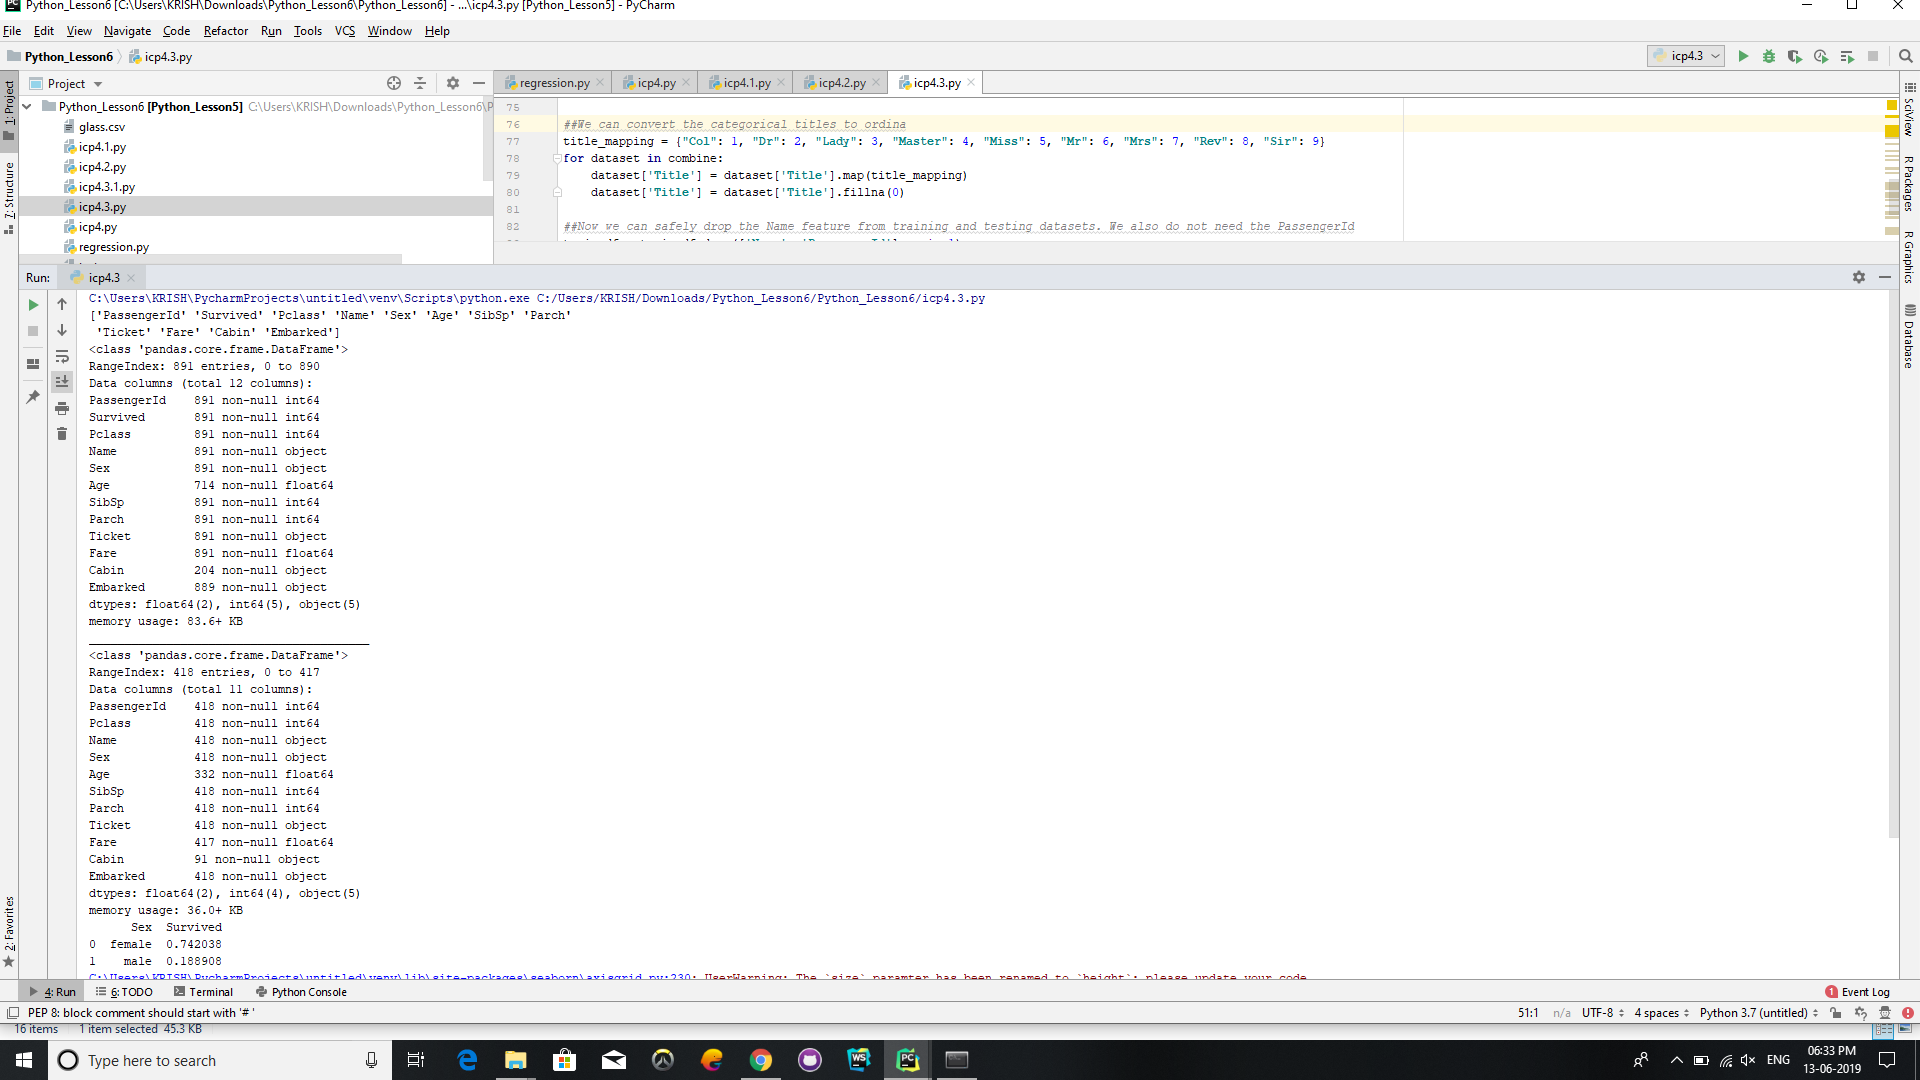
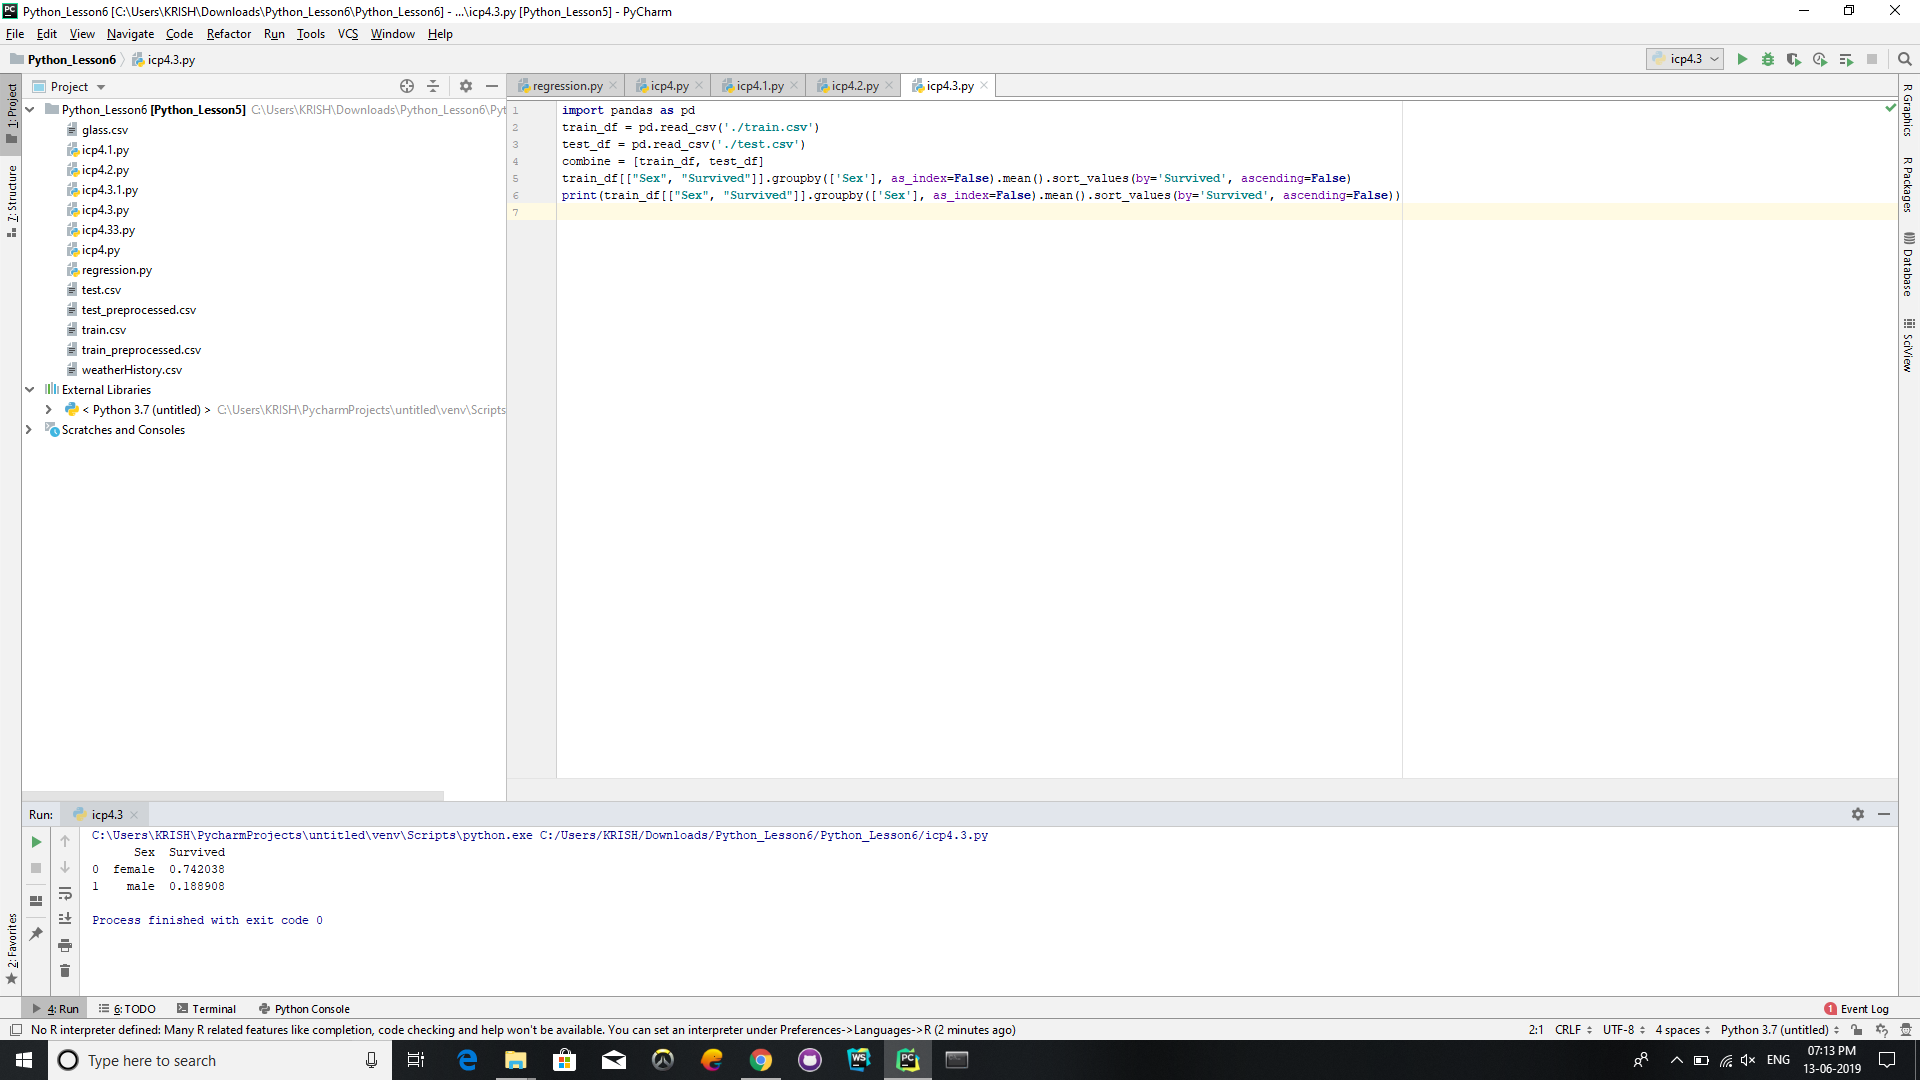
commit

Changed region(s): [[0.0, 0.0, 1.0, 0.9778]]

diff --git a/ICP 4/icp4.3.py b/ICP 4/icp4.3.py
@@ -1,106 +1,6 @@
 import pandas as pd
-import numpy as np
-import random as rnd
-
-# visualization
-import seaborn as sns
-import matplotlib.pyplot as plt
-
-
-# machine learning
-from sklearn.linear_model import LogisticRegression, RidgeClassifierCV
-from sklearn.svm import SVC, LinearSVC
-from sklearn.ensemble import (RandomForestClassifier, GradientBoostingClassifier)
-from sklearn.neighbors import KNeighborsClassifier
-from sklearn.naive_bayes import GaussianNB
-from sklearn.linear_model import Perceptron
-from sklearn.linear_model import SGDClassifier
-from sklearn.tree import DecisionTreeClassifier
-from sklearn.model_selection import cross_val_score, GridSearchCV
-from sklearn.metrics import accuracy_score
-
-##reading data set
 train_df = pd.read_csv('./train.csv')
 test_df = pd.read_csv('./test.csv')
 combine = [train_df, test_df]
-
-##describing data
-print(train_df.columns.values)
-
-
-train_df.head()
-
-##what are the data types for features
-train_df.info()
-print('_'*40)
-test_df.info()
-
-##What is the distribution of numerical feature values across the samples
-train_df.describe()
-
-##Analyze by pivoting features ---> the higher the number means more correlation with the target
-train_df[['Pclass', 'Survived']].groupby(['Pclass'], as_index=False).mean().sort_values(by='Survived', ascending=False)
 train_df[["Sex", "Survived"]].groupby(['Sex'], as_index=False).mean().sort_values(by='Survived', ascending=False)
 print(train_df[["Sex", "Survived"]].groupby(['Sex'], as_index=False).mean().sort_values(by='Survived', ascending=False))
-train_df[["SibSp", "Survived"]].groupby(['SibSp'], as_index=False).mean().sort_values(by='Survived', ascending=False)
-train_df[["Parch", "Survived"]].groupby(['Parch'], as_index=False).mean().sort_values(by='Survived', ascending=False)
-
-##Analyze by visualizing data
-####Correlating numerical features
-g = sns.FacetGrid(train_df, col='Survived')
-g.map(plt.hist, 'Age', bins=20)
-
-##Correlating categorical features
-grid = sns.FacetGrid(train_df, row='Embarked', size=2.2, aspect=1.6)
-grid.map(sns.pointplot, 'Pclass', 'Survived', 'Sex', palette='deep')
-grid.add_legend()
-grid = sns.FacetGrid(train_df, row='Embarked', col='Survived', size=2.2, aspect=1.6)
-grid.map(sns.barplot, 'Sex', 'Fare', alpha=.5, ci=None)
-grid.add_legend()
-
-##Correcting by dropping features
-train_df = train_df.drop(['Ticket', 'Cabin','Parch','SibSp'], axis=1)
-test_df = test_df.drop(['Ticket', 'Cabin','Parch','SibSp'], axis=1)
-
-##Creating new feature extracting from existing
-for dataset in combine:
-    dataset['Title'] = dataset.Name.str.extract(' ([A-Za-z]+)\.', expand=False)
-
-for dataset in combine:
-     dataset['Title'] = dataset['Title'].replace(['Lady', 'Countess', 'Jonkheer', 'Dona'], 'Lady')
-     dataset['Title'] = dataset['Title'].replace(['Capt', 'Don', 'Major', 'Sir'], 'Sir')
-     dataset['Title'] = dataset['Title'].replace('Mlle', 'Miss')
-     dataset['Title'] = dataset['Title'].replace('Ms', 'Miss')
-     dataset['Title'] = dataset['Title'].replace('Mme', 'Mrs')
-
-##We can convert the categorical titles to ordina
-title_mapping = {"Col": 1, "Dr": 2, "Lady": 3, "Master": 4, "Miss": 5, "Mr": 6, "Mrs": 7, "Rev": 8, "Sir": 9}
-for dataset in combine:
-    dataset['Title'] = dataset['Title'].map(title_mapping)
-    dataset['Title'] = dataset['Title'].fillna(0)
-
-##Now we can safely drop the Name feature from training and testing datasets. We also do not need the PassengerId
-train_df = train_df.drop(['Name', 'PassengerId'], axis=1)
-test_df = test_df.drop(['Name'], axis=1)
-combine = [train_df, test_df]
-
-##Converting a categorical feature
-for dataset in combine:
-    dataset['Sex'] = dataset['Sex'].map( {'female': 1, 'male': 0} ).astype(int)
-
-##Now we should start estimating and completing features with missing or null values. We will first do this for the Age feature.
-##filling NA valuaes
-freq_port = train_df.Embarked.dropna().mode()[0]
-meanAge = int(train_df.Age.dropna().mean())
-
-for dataset in combine:
-    dataset['Embarked'] = dataset['Embarked'].fillna(freq_port)
-    dataset['Age'] = dataset['Age'].fillna(meanAge)
-    dataset['Fare'] = dataset['Fare'].fillna(test_df['Fare'].dropna().median())
-
-    ###Converting categorical feature to numeric
-for dataset in combine:
-    dataset['Embarked'] = dataset['Embarked'].map( {'S': 0, 'C': 1, 'Q': 2} ).astype(int)
-
-combine[0].to_csv('train_preprocessed.csv',index=False)
-combine[1].to_csv('test_preprocessed.csv',index=False)
